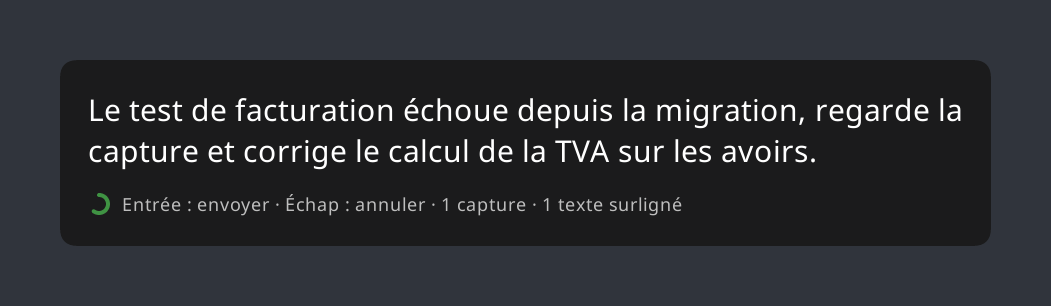
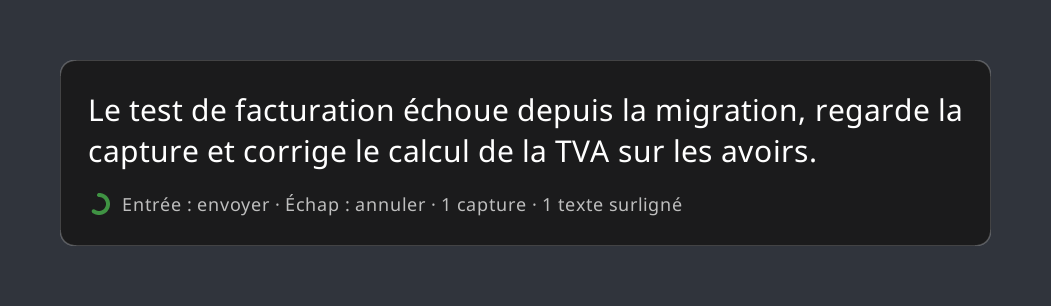
docs: démo animée dans le README, liseré du panneau

Changed region(s): [[0.0609, 0.7941, 0.9439, 0.8235], [0.0609, 0.1765, 0.9439, 0.2059]]

diff --git a/src/overlay.rs b/src/overlay.rs
@@ -308,3 +308,139 @@ mod readme {
         hold.save_png("docs/readme/panneau.png").unwrap();
     }
 }
+
+#[cfg(test)]
+mod demo {
+    use super::{Look, draw};
+    use crate::panel::Panel;
+    use tiny_skia::{Color, FillRule, Paint, PathBuilder, Pixmap, PixmapPaint, Rect, Transform};
+
+    const FPS: f32 = 15.0;
+    const WIDTH: u32 = 1280;
+    const HEIGHT: u32 = 720;
+    const CURSOR: (f32, f32) = (900.0, 330.0);
+    const SPOKEN: &str = "Corrige le test de facturation qui échoue depuis la migration";
+    const VOICE: [u32; 40] = [
+        677, 838, 1011, 917, 620, 798, 597, 379, 422, 338, 986, 380, 594, 1127, 1118, 818, 482, 431, 779, 910, 1397, 1512, 1054,
+        371, 489, 783, 1835, 1422, 1272, 1151, 92, 617, 1266, 969, 1074, 683, 431, 400, 1222, 1036,
+    ];
+
+    fn rect(pixmap: &mut Pixmap, x: f32, y: f32, width: f32, height: f32, rgba: (u8, u8, u8, u8)) {
+        let mut paint = Paint::default();
+        paint.set_color(Color::from_rgba8(rgba.0, rgba.1, rgba.2, rgba.3));
+        if let Some(rect) = Rect::from_xywh(x, y, width, height) {
+            pixmap.fill_rect(rect, &paint, Transform::identity(), None);
+        }
+    }
+
+    fn arrow(pixmap: &mut Pixmap, (x, y): (f32, f32)) {
+        let points = [(0.0, 0.0), (0.0, 22.0), (6.0, 16.5), (10.0, 25.0), (13.5, 23.5), (9.5, 15.5), (17.0, 15.5)];
+        let mut builder = PathBuilder::new();
+        for (i, (dx, dy)) in points.iter().enumerate() {
+            if i == 0 { builder.move_to(x + dx, y + dy) } else { builder.line_to(x + dx, y + dy) }
+        }
+        builder.close();
+        let path = builder.finish().unwrap();
+        let mut white = Paint::default();
+        white.set_color(Color::WHITE);
+        pixmap.fill_path(&path, &white, FillRule::Winding, Transform::identity(), None);
+        let mut black = Paint::default();
+        black.set_color(Color::BLACK);
+        pixmap.stroke_path(&path, &black, &tiny_skia::Stroke { width: 1.5, ..Default::default() }, Transform::identity(), None);
+    }
+
+    fn caption(pixmap: &mut Pixmap, font: &Panel, text: &str) {
+        let mut probe = Pixmap::new(1, 1).unwrap();
+        let width = font.write(&mut probe, text, 24.0, 0.0, 0.0, (0, 0, 0));
+        let x = (WIDTH as f32 - width) / 2.0;
+        rect(pixmap, x - 22.0, 636.0, width + 44.0, 48.0, (0, 0, 0, 170));
+        font.write(pixmap, text, 24.0, x, 646.0, (255, 255, 255));
+    }
+
+    fn terminal(pixmap: &mut Pixmap, font: &Panel, typed: &str, sent: bool, caret: bool) {
+        rect(pixmap, 80.0, 50.0, 1120.0, 560.0, (24, 24, 27, 255));
+        rect(pixmap, 80.0, 50.0, 1120.0, 38.0, (38, 38, 43, 255));
+        font.write(pixmap, "ghostty — claude", 16.0, 580.0, 60.0, (170, 170, 170));
+        font.write(pixmap, "Claude Code", 22.0, 110.0, 110.0, (217, 119, 87));
+        font.write(pixmap, "~/projets/facturation", 18.0, 110.0, 142.0, (140, 140, 140));
+        let prompt_y = if sent { 290.0 } else { 200.0 };
+        if sent {
+            font.write(pixmap, &format!("> {typed}"), 20.0, 110.0, 200.0, (150, 150, 150));
+            let mut dot = Paint::default();
+            dot.set_color(Color::from_rgba8(217, 119, 87, 255));
+            pixmap.fill_path(&PathBuilder::from_circle(116.0, 254.0, 5.0).unwrap(), &dot, FillRule::Winding, Transform::identity(), None);
+            font.write(pixmap, "Je regarde le test de facturation et la migration…", 20.0, 130.0, 240.0, (230, 230, 230));
+        }
+        let shown = if sent { "" } else { typed };
+        let width = font.write(pixmap, &format!("> {shown}"), 20.0, 110.0, prompt_y, (255, 255, 255));
+        if caret {
+            rect(pixmap, 112.0 + width, prompt_y + 2.0, 10.0, 22.0, (230, 230, 230, 255));
+        }
+    }
+
+    fn wave_at(seconds: f32, silent_from: f32) -> Vec<(f32, bool)> {
+        let frame = (seconds * 10.0) as usize;
+        (0..14)
+            .map(|i| {
+                let index = (frame + i).saturating_sub(13);
+                let at = index as f32 / 10.0;
+                let level = if at < silent_from { VOICE[index % VOICE.len()] } else { 30 };
+                ((level as f32 / 12000.0).sqrt().min(1.0), level > 300)
+            })
+            .collect()
+    }
+
+    #[test]
+    #[ignore = "génère les images de la démo : voir docs/readme/demo.sh"]
+    fn images_de_la_demo() {
+        let out = std::env::var("DEMO_FRAMES").expect("DEMO_FRAMES : dossier de sortie");
+        let font = Panel::load().expect("police système introuvable");
+        let words: Vec<&str> = SPOKEN.split(' ').collect();
+        let (listen, silence, transcribe, hold, typing, sent, end) = (1.0, 5.0, 7.0, 8.2, 11.2, 12.8, 15.0);
+        for frame in 0..(end * FPS) as usize {
+            let t = frame as f32 / FPS;
+            let mut pixmap = Pixmap::new(WIDTH, HEIGHT).unwrap();
+            pixmap.fill(Color::from_rgba8(48, 52, 60, 255));
+            let typed = if t < typing {
+                String::new()
+            } else {
+                let count = (((t - typing) / (sent - typing - 0.3)).min(1.0) * SPOKEN.chars().count() as f32) as usize;
+                SPOKEN.chars().take(count).collect()
+            };
+            terminal(&mut pixmap, &font, &typed, t >= sent, (t * 2.0) as u32 % 2 == 0);
+
+            let look = if t < listen || t >= typing {
+                Look::Hidden
+            } else if t < transcribe {
+                Look::Listening { plain: false, wave: wave_at(t - listen, silence - listen), attachments: 0 }
+            } else if t < hold {
+                Look::Transcribing
+            } else {
+                Look::Holding { remaining: 1.0 - (t - hold) / (typing - hold), spoken: SPOKEN.into(), footer: String::new() }
+            };
+            if let Some(overlay) = draw(&look, t - transcribe) {
+                let place = Transform::from_row(1.6, 0.0, 0.0, 1.6, CURSOR.0 + 20.0, CURSOR.1 + 20.0);
+                pixmap.draw_pixmap(0, 0, overlay.as_ref(), &PixmapPaint::default(), place, None);
+            }
+            if let Look::Holding { remaining, .. } = look {
+                let card = font.draw(SPOKEN, "Entrée : envoyer · Échap : annuler", remaining, 760.0).unwrap();
+                let (x, y) = ((WIDTH - card.width()) as i32 / 2, (HEIGHT - card.height()) as i32 / 2 - 40);
+                pixmap.draw_pixmap(x, y, card.as_ref(), &PixmapPaint::default(), Transform::identity(), None);
+            }
+            arrow(&mut pixmap, CURSOR);
+
+            let said = ((t - listen) / (silence - listen - 0.4) * words.len() as f32).clamp(0.0, words.len() as f32) as usize;
+            let text = match t {
+                t if t < listen => "Super + Q pour parler".to_string(),
+                t if t < silence => format!("🎙  « {} »", words[..said.max(1)].join(" ")),
+                t if t < transcribe => "Je me tais 2 s : le micro se coupe tout seul".to_string(),
+                t if t < hold => "Transcription locale avec Whisper".to_string(),
+                t if t < typing => "5 s pour relire — Entrée : envoyer · Échap : annuler".to_string(),
+                t if t < sent => "Le texte est tapé dans Claude Code…".to_string(),
+                _ => "… et envoyé".to_string(),
+            };
+            caption(&mut pixmap, &font, &text.replace("🎙  ", ""));
+            pixmap.save_png(format!("{out}/frame-{frame:04}.png")).unwrap();
+        }
+    }
+}

diff --git a/src/panel.rs b/src/panel.rs
@@ -3,7 +3,7 @@ use std::process::Command;
 
 use fontdue::layout::{CoordinateSystem, GlyphPosition, Layout, LayoutSettings, TextStyle};
 use fontdue::{Font, FontSettings};
-use tiny_skia::{FillRule, PathBuilder, Pixmap, Transform};
+use tiny_skia::{FillRule, PathBuilder, Pixmap, Stroke, Transform};
 
 use crate::overlay::{GREEN, arc, color, paint};
 
@@ -44,6 +44,13 @@ impl Panel {
         arc(&mut pixmap, PADDING + RING, footer_center, RING - 2.0, -TAU / 4.0, -TAU / 4.0 + TAU * remaining, color(GREEN, 230));
         self.blit(&mut pixmap, &foot, PADDING + 2.0 * RING + 12.0, footer_center - foot.height / 2.0, (190, 190, 190));
         Some(pixmap)
+    }
+
+    #[cfg(test)]
+    pub fn write(&self, pixmap: &mut Pixmap, text: &str, size: f32, x: f32, y: f32, rgb: (u8, u8, u8)) -> f32 {
+        let laid = self.layout(text, size, f32::MAX);
+        self.blit(pixmap, &laid, x, y, rgb);
+        laid.width
     }
 
     fn layout(&self, text: &str, size: f32, max_width: f32) -> Laid {
@@ -91,6 +98,8 @@ fn rounded_rect(pixmap: &mut Pixmap, width: f32, height: f32, radius: f32) {
     builder.close();
     if let Some(path) = builder.finish() {
         pixmap.fill_path(&path, &paint(color((25, 25, 25), 235)), FillRule::Winding, Transform::identity(), None);
+        let border = Stroke { width: 1.5, ..Stroke::default() };
+        pixmap.stroke_path(&path, &paint(color((255, 255, 255), 60)), &border, Transform::identity(), None);
     }
 }
 

diff --git a/README.md b/README.md
@@ -4,8 +4,8 @@ Dictée vocale sous Linux X11 : ce que tu dis est tapé dans la fenêtre qui a l
 Inspiré de [victorrentea/walkie-talkie](https://github.com/victorrentea/walkie-talkie), l'overlay macOS de Victor Rentea — réécrit de zéro en Rust, sans reprise de code.
 
 <p align="center">
-  <img src="docs/readme/panneau.png" width="700" alt="Le panneau d'attente au centre de l'écran : le texte dicté en gros, puis Entrée pour envoyer, Échap pour annuler, une capture et un texte surligné joints">
-  <br><sub>le texte dicté, 5 s pour relire avant l'envoi</sub>
+  <img src="docs/readme/demo.gif" width="800" alt="Démo : Super+Q, la forme d'onde suit la voix près du curseur, 2 s de silence ferment le micro, transcription, le panneau affiche le texte 5 s, puis il est tapé et envoyé dans Claude Code">
+  <br><sub>démo simulée (sous-titres à la place du son), dessinée par le code de l'outil</sub>
 </p>
 
 ## Utilisation
@@ -17,7 +17,9 @@ Inspiré de [victorrentea/walkie-talkie](https://github.com/victorrentea/walkie-
 
    L'indicateur compte les pièces jointes (un point blanc chacune). Le déroulé normal passe uniquement par l'indicateur et le panneau ; les notifications GNOME ne servent qu'aux cas particuliers (« Rien entendu », micro ou transcription indisponible, capture impossible), ou pour tout si le panneau ne peut pas s'afficher (aucune police système).
 3. **Se taire 2 s** (ou <kbd>Super</kbd>+<kbd>Q</kbd> à nouveau) : le micro se ferme, la fenêtre active à cet instant est retenue comme cible, la transcription démarre (Whisper en local, rien ne sort de la machine).
-4. Le texte s'affiche en gros dans un panneau **au centre de l'écran où se trouve le curseur**, avec un anneau vert qui se vide, puis part **5 s plus tard** dans la fenêtre retenue, suivi d'Entrée (sans police système, une notification GNOME le remplace). Pendant ces 5 s :
+4. <img src="docs/readme/panneau.png" width="560" alt="Le panneau d'attente : le texte dicté en gros, puis Entrée pour envoyer, Échap pour annuler, une capture et un texte surligné joints">
+
+   Le texte s'affiche en gros dans un panneau **au centre de l'écran où se trouve le curseur**, avec un anneau vert qui se vide, puis part **5 s plus tard** dans la fenêtre retenue, suivi d'Entrée (sans police système, une notification GNOME le remplace). Pendant ces 5 s :
    - <kbd>Entrée</kbd> : envoyer tout de suite ;
    - <kbd>Échap</kbd> ou <kbd>Super</kbd>+<kbd>Q</kbd> : annuler.
 5. Un indicateur suit le curseur pendant tout le cycle :
@@ -157,6 +159,12 @@ Les images de ce README sont dessinées par le code de l'indicateur et du pannea
 
 ```bash
 cargo test -- --ignored readme
+```
+
+Et la démo animée (nécessite `ffmpeg`) :
+
+```bash
+./docs/readme/demo.sh
 ```
 
 La CI GitHub Actions (`.github/workflows/ci.yml`) lance les tests, compile un binaire portable et vérifie une transcription réelle (phrase synthétisée par `espeak-ng`, modèle `base`).
